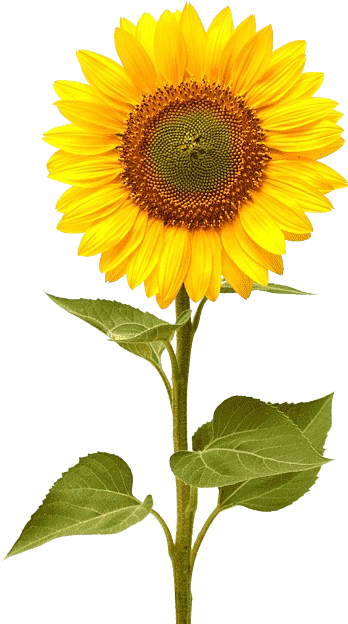
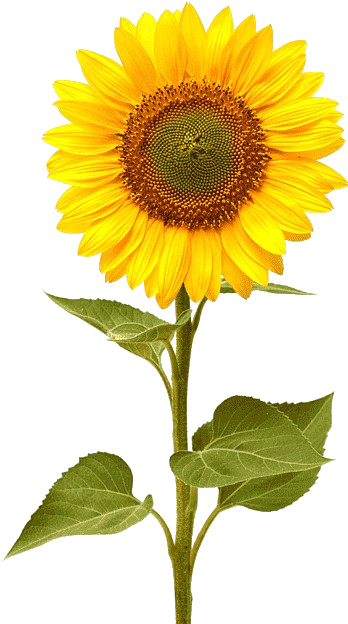
crop show bug is fixed

diff --git a/lib/widgets/crop_render_factory.dart b/lib/widgets/crop_render_factory.dart
@@ -198,18 +198,32 @@ Widget buildCropMarkerWidget({
           : assetPath;
 
       Widget buildSpriteImage() {
+        final devicePixelRatio =
+            MediaQuery.maybeDevicePixelRatioOf(context) ?? 1.0;
+        final cacheW =
+            (spriteW * devicePixelRatio).round().clamp(24, 512).toInt();
+        final cacheH =
+            (spriteH * devicePixelRatio).round().clamp(24, 768).toInt();
         return Image.asset(
           pngPath,
           width: spriteW,
           height: spriteH,
           fit: BoxFit.contain,
+          cacheWidth: cacheW,
+          cacheHeight: cacheH,
           filterQuality: FilterQuality.high,
+          isAntiAlias: true,
+          gaplessPlayback: true,
           errorBuilder: (_, __, ___) => Image.asset(
             jpgPath,
             width: spriteW,
             height: spriteH,
             fit: BoxFit.contain,
+            cacheWidth: cacheW,
+            cacheHeight: cacheH,
             filterQuality: FilterQuality.high,
+            isAntiAlias: true,
+            gaplessPlayback: true,
             errorBuilder: (_, __, ___) => const SizedBox.shrink(),
           ),
         );
@@ -315,175 +329,32 @@ Widget buildCropMarkerWidget({
             )
           : orientLayer(sprite);
 
-      final double shadowW = spriteW * 0.7;
-      final double shadowH = spriteH * 0.12;
-      // Gölgeleri çok yumuşattık çünkü overlap olunca kapkara oluyorlardı.
-      final double shadowAlpha =
-          phase == GrowthPhase.harvest ? 0.18 + (harvestPulse * 0.05) : 0.12;
+      final statusSemantics = switch (healthStatus) {
+        'diseased' => diseaseType?.trim().isNotEmpty == true
+            ? ', hastalık belirtisi: $diseaseType'
+            : ', hastalık belirtisi var',
+        'dead' => ', bitki cansız',
+        _ => '',
+      };
+      final harvestMarkerScale =
+          phase == GrowthPhase.harvest ? 1.0 + (harvestPulse * 0.03) : 1.0;
 
-      final groundShadow = Container(
-        width: shadowW,
-        height: shadowH,
-        decoration: BoxDecoration(
-          color: Colors.black.withValues(alpha: shadowAlpha),
-          borderRadius: BorderRadius.all(Radius.elliptical(shadowW, shadowH)),
-        ),
-      );
-
-      // "Kazılmış toprak" dairesi — bitkinin toprağa ekildiği izlenim için
-      // radial gradient: merkez koyu toprak, kenar fade-out
-      final double soilW = spriteW * 0.85;
-      final double soilH = spriteH * 0.22;
-      final soilDisc = Container(
-        width: soilW,
-        height: soilH,
-        decoration: BoxDecoration(
-          borderRadius: BorderRadius.all(Radius.elliptical(soilW, soilH)),
-          gradient: RadialGradient(
-            center: Alignment.center,
-            radius: 0.55,
-            colors: [
-              const Color(0xFF3E2A17).withValues(alpha: 0.55),
-              const Color(0xFF5B3A21).withValues(alpha: 0.35),
-              const Color(0xFF5B3A21).withValues(alpha: 0.0),
-            ],
-            stops: const [0.0, 0.55, 1.0],
-          ),
-        ),
-      );
-      final showGroundContact = currentZoom >= 16.0;
-      final double rootLockW = spriteW * 0.24;
-      final double rootLockH = (spriteH * 0.055).clamp(2.0, 8.0);
-      final double rootPinW = (spriteW * 0.055).clamp(2.0, 4.5);
-      final double rootPinH = (spriteH * 0.16).clamp(7.0, 18.0);
-      final rootPin = Container(
-        width: rootPinW,
-        height: rootPinH,
-        decoration: BoxDecoration(
-          borderRadius: BorderRadius.circular(rootPinW),
-          gradient: const LinearGradient(
-            begin: Alignment.topCenter,
-            end: Alignment.bottomCenter,
-            colors: [
-              Color(0xFF6E6A22),
-              Color(0xFF5B3A1F),
-              Color(0xFF2D1A0F),
-            ],
-          ),
-          boxShadow: [
-            BoxShadow(
-              color: Colors.black.withValues(alpha: 0.22),
-              blurRadius: 2,
-              offset: const Offset(0, 1),
-            ),
-          ],
-        ),
-      );
-      final double rootMoundW = spriteW * 0.36;
-      final double rootMoundH = (spriteH * 0.09).clamp(4.0, 12.0);
-      final rootMound = Container(
-        width: rootMoundW,
-        height: rootMoundH,
-        decoration: BoxDecoration(
-          borderRadius:
-              BorderRadius.all(Radius.elliptical(rootMoundW, rootMoundH)),
-          gradient: RadialGradient(
-            center: Alignment.center,
-            radius: 0.72,
-            colors: [
-              const Color(0xFF2D1A0F).withValues(alpha: 0.82),
-              const Color(0xFF4A2D18).withValues(alpha: 0.56),
-              const Color(0xFF4A2D18).withValues(alpha: 0.0),
-            ],
-            stops: const [0.0, 0.58, 1.0],
-          ),
-        ),
-      );
-      final rootLock = Container(
-        width: rootLockW,
-        height: rootLockH,
-        decoration: BoxDecoration(
-          borderRadius:
-              BorderRadius.all(Radius.elliptical(rootLockW, rootLockH)),
-          gradient: LinearGradient(
-            begin: Alignment.topCenter,
-            end: Alignment.bottomCenter,
-            colors: [
-              const Color(0xFF6B4728).withValues(alpha: 0.0),
-              const Color(0xFF4A2D18).withValues(alpha: 0.62),
-              const Color(0xFF2D1A0F).withValues(alpha: 0.82),
-            ],
-            stops: const [0.0, 0.45, 1.0],
-          ),
-          boxShadow: [
-            BoxShadow(
-              color: Colors.black.withValues(alpha: 0.16),
-              blurRadius: 3,
-              offset: const Offset(0, 1),
-            ),
-          ],
-        ),
-      );
-
-      // PNG bitki: TABANI marker'ın alt kenarına yapışır. Dış Marker
-      // `Alignment.topCenter` ile bu kenar lat/lng zeminine oturur.
-      final marker = Transform(
-        transform: Matrix4.identity()..rotateX(0.95),
-        alignment: Alignment.bottomCenter,
+      // Marker sadece bitki PNG'sini çizer; zemin gölgesi/toprak lekesi eklenmez.
+      final marker = Semantics(
+        label: cropName.trim().isEmpty ? null : '$cropName$statusSemantics',
         child: SizedBox.expand(
           child: Align(
             alignment: Alignment.bottomCenter,
             child: SizedBox(
               width: spriteW,
               height: spriteH,
-              child: Stack(
-                clipBehavior: Clip.none,
+              child: Align(
                 alignment: Alignment.bottomCenter,
-                children: [
-                  // 1. Toprak dairesi (zemin) — bitkinin altına denk gelir
-                  if (showGroundContact)
-                    Positioned(
-                      bottom: 0,
-                      child: soilDisc,
-                    ),
-                  // 2. Gölge: toprağın üstünde hafif kararma
-                  if (showGroundContact)
-                    Positioned(
-                      bottom: 0,
-                      child: groundShadow,
-                    ),
-                  // 3. Bitki: tabanı zemin çizgisinde
-                  Align(
-                    alignment: Alignment.bottomCenter,
-                    child: orientedSprite,
-                  ),
-                  if (showGroundContact)
-                    Positioned(
-                      bottom: 0,
-                      child: rootPin,
-                    ),
-                  if (showGroundContact)
-                    Positioned(
-                      bottom: 0,
-                      child: rootMound,
-                    ),
-                  if (showGroundContact)
-                    Positioned(
-                      bottom: rootMoundH * 0.24,
-                      child: rootLock,
-                    ),
-                  // 4. Sağlık badge'i — hasta/ölü işaretlenmiş bitkilerde
-                  // sağ-üst köşede ünlem (kırmızı) veya X (siyah).
-                  if (healthStatus == 'diseased' || healthStatus == 'dead')
-                    Positioned(
-                      top: 0,
-                      right: 0,
-                      child: _HealthBadge(
-                        status: healthStatus!,
-                        diameter: (spriteW * 0.32).clamp(10.0, 18.0),
-                      ),
-                    ),
-                ],
+                child: Transform.scale(
+                  scale: harvestMarkerScale,
+                  alignment: Alignment.bottomCenter,
+                  child: orientedSprite,
+                ),
               ),
             ),
           ),
@@ -609,38 +480,4 @@ Widget buildCropMarkerWidget({
       return highlightedMarker;
     },
   );
-}
-
-/// Hasta/ölü bitkinin sağ-üst köşesine yapıştırılan küçük gösterge.
-/// Tasarım: kırmızı/siyah dolgulu daire + beyaz kenarlık + içinde ikon.
-/// Boyut zoom ile birlikte ölçeklenir (10–18px).
-class _HealthBadge extends StatelessWidget {
-  const _HealthBadge({required this.status, required this.diameter});
-
-  final String status;
-  final double diameter;
-
-  @override
-  Widget build(BuildContext context) {
-    final isDead = status == 'dead';
-    final color = isDead ? const Color(0xFF1A1A1A) : const Color(0xFFD32F2F);
-    final icon = isDead ? Icons.close_rounded : Icons.priority_high_rounded;
-    return Container(
-      width: diameter,
-      height: diameter,
-      decoration: BoxDecoration(
-        color: color,
-        shape: BoxShape.circle,
-        border: Border.all(color: Colors.white, width: 1.5),
-        boxShadow: [
-          BoxShadow(
-            color: color.withValues(alpha: 0.45),
-            blurRadius: 4,
-            offset: const Offset(0, 1),
-          ),
-        ],
-      ),
-      child: Icon(icon, color: Colors.white, size: diameter * 0.7),
-    );
-  }
 }
